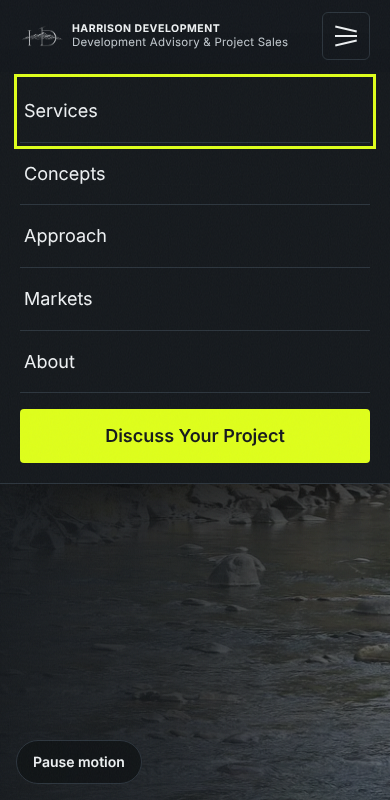
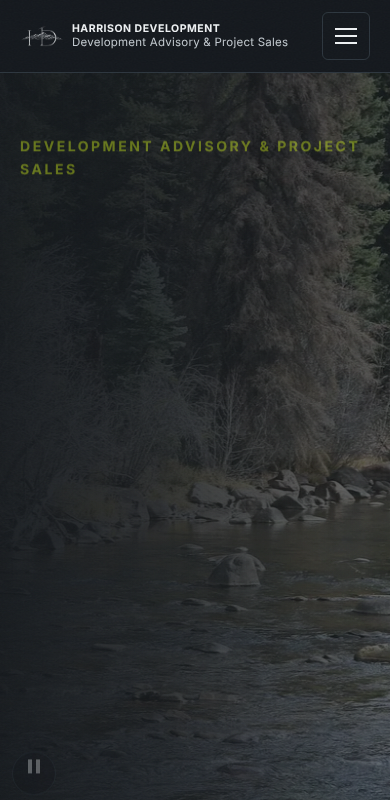
Harrison Development site: Pause motion steps aside on phones
On phones the wide Pause motion pill sat over the hero buttons and page text.
- Phones: a 44px glass circle with a pause/play symbol (screen readers still
  hear "Pause motion"); hidden while the opening screen is in view, shown
  once the visitor scrolls on; no stuck hover colour after a tap
- The same switch is a "Pause motion" row in the phone menu, so it is
  reachable from the top of the page, and the two stay in sync
- Footer has room at the end so its last line clears the button
- Desktop keeps the labeled pill; version tags bumped to 20261117b

Claude-Session: https://claude.ai/code/session_016C3qjMNvE1b3i9gP1RHhFb

diff --git a/harrison-development/js/main.js b/harrison-development/js/main.js
@@ -148,6 +148,7 @@
   /* ---------- Background footage: lazy, muted, plays only in view; one switch pauses all motion ---------- */
   var bgVideos = Array.prototype.slice.call(doc.querySelectorAll("video[data-bg]"));
   var motionToggle = $("motionToggle");
+  var navMotion = null;
   var motionPaused = false;
   try { motionPaused = localStorage.getItem("hdMotion") === "paused"; } catch (e) {}
   var inView = [];
@@ -168,6 +169,7 @@
     motionPaused = p;
     root.classList.toggle("motion-paused", p);
     if (motionToggle) { motionToggle.setAttribute("aria-pressed", String(p)); motionToggle.textContent = p ? "Play motion" : "Pause motion"; }
+    if (navMotion) { navMotion.setAttribute("aria-pressed", String(p)); navMotion.textContent = p ? "Play motion" : "Pause motion"; }
     if (save) { try { localStorage.setItem("hdMotion", p ? "paused" : "on"); } catch (e) {} }
     syncVideos();
   };
@@ -185,6 +187,24 @@
   if (motionToggle && !reduce) {
     motionToggle.hidden = false;
     motionToggle.addEventListener("click", function () { applyMotion(!motionPaused, true); });
+    // Phones: the same switch also lives in the menu, so it is reachable from the top of the page.
+    var navList = nav ? nav.querySelector("ul") : null, ctaLi = navList ? navList.querySelector(".nav-cta") : null;
+    if (navList) {
+      var li = doc.createElement("li"); li.className = "nav-motion-item";
+      navMotion = doc.createElement("button"); navMotion.type = "button"; navMotion.className = "nav-motion";
+      navMotion.addEventListener("click", function () { applyMotion(!motionPaused, true); });
+      li.appendChild(navMotion);
+      navList.insertBefore(li, ctaLi ? ctaLi.parentNode : null);
+    }
+    // Phones: the floating button steps aside while the opening screen (and its buttons) is in view.
+    var heroEl = $("hero"), phoneMq = window.matchMedia ? window.matchMedia("(max-width: 899px)") : { matches: false };
+    var placeMotion = function () {
+      var away = phoneMq.matches && heroEl && window.scrollY < heroEl.offsetHeight * 0.6;
+      motionToggle.classList.toggle("mt-away", !!away);
+    };
+    window.addEventListener("scroll", placeMotion, { passive: true });
+    if (phoneMq.addEventListener) phoneMq.addEventListener("change", placeMotion);
+    placeMotion();
   }
   applyMotion(motionPaused, false);
 

diff --git a/harrison-development/css/styles.css b/harrison-development/css/styles.css
@@ -629,3 +629,24 @@ h3{letter-spacing:-.015em}
 /* The phone sizes above (line 42) were overridden by the general .brand-name /
    .brand-desc rules that follow them; restate them here so they apply. */
 @media(max-width:419px){.brand-name{font-size:10.5px;letter-spacing:.05em}.brand-desc{font-size:11.5px}}
+
+/* Pause motion on phones: a small glass circle with a symbol (screen readers still
+   hear "Pause motion"), out of the way while the opening screen is in view, and
+   also offered in the menu. Desktop keeps the labeled pill. */
+.nav-motion-item{display:none}
+@media(max-width:899px){
+  .motion-toggle{width:44px;height:44px;min-height:44px;padding:0;font-size:0;display:grid;place-items:center;
+    left:12px;bottom:calc(12px + env(safe-area-inset-bottom,0px));background:rgba(14,17,20,.72);
+    -webkit-backdrop-filter:blur(14px) saturate(140%);backdrop-filter:blur(14px) saturate(140%);
+    transition:opacity .25s ease,translate .25s cubic-bezier(.23,1,.32,1)}
+  .motion-toggle[hidden]{display:none}
+  .motion-toggle::before{content:"";width:12px;height:14px;border-left:4px solid currentColor;border-right:4px solid currentColor;box-sizing:border-box}
+  .motion-toggle[aria-pressed="true"]::before{width:0;height:0;border:0;border-left:13px solid currentColor;border-top:8px solid transparent;border-bottom:8px solid transparent;margin-left:4px}
+  .motion-toggle.mt-away{opacity:0;translate:0 8px;pointer-events:none}
+  .js .nav-motion-item{display:block}
+  .nav-motion{display:block;width:100%;text-align:left;background:none;border:0;border-bottom:1px solid var(--line-dark);
+    padding:16px 4px;font:400 18px/1.2 var(--sans);color:var(--paper-soft);cursor:pointer;-webkit-tap-highlight-color:transparent;touch-action:manipulation}
+  .site-footer{padding-bottom:88px}
+}
+@media (max-width:899px) and (prefers-reduced-transparency:reduce){.motion-toggle{background:#0E1114;-webkit-backdrop-filter:none;backdrop-filter:none}}
+@media (hover:none){.motion-toggle:hover{border-color:var(--line-light);color:var(--paper)}}

diff --git a/harrison-development/index.html b/harrison-development/index.html
@@ -18,7 +18,7 @@
   <link rel="icon" href="assets/brand/hd-favicon.svg" type="image/svg+xml">
   <link rel="preload" href="assets/fonts/inter-latin-wght-normal.woff2" as="font" type="font/woff2" crossorigin>
   <link rel="preload" href="assets/fonts/space-grotesk-latin-wght-normal.woff2" as="font" type="font/woff2" crossorigin>
-  <link rel="stylesheet" href="css/styles.css?v=20261117a">
+  <link rel="stylesheet" href="css/styles.css?v=20261117b">
 </head>
 <body>
   <a class="skip" href="#main">Skip to main content</a>
@@ -536,8 +536,8 @@
 
   <button type="button" class="motion-toggle" id="motionToggle" aria-pressed="false" hidden>Pause motion</button>
 
-  <script src="js/config.js?v=20261117a"></script>
-  <script src="js/main.js?v=20261117a"></script>
-  <script type="module" src="js/terrain.js?v=20261117a"></script>
+  <script src="js/config.js?v=20261117b"></script>
+  <script src="js/main.js?v=20261117b"></script>
+  <script type="module" src="js/terrain.js?v=20261117b"></script>
 </body>
 </html>

diff --git a/harrison-development/privacy.html b/harrison-development/privacy.html
@@ -5,7 +5,7 @@
   <meta name="viewport" content="width=device-width, initial-scale=1">
   <title>Privacy Notice | Harrison Development</title>
   <link rel="icon" href="assets/brand/hd-favicon.svg" type="image/svg+xml">
-  <link rel="stylesheet" href="css/styles.css?v=20261117a">
+  <link rel="stylesheet" href="css/styles.css?v=20261117b">
 </head>
 <body>
   <a class="skip" href="#main">Skip to main content</a>
@@ -41,7 +41,7 @@
     </div>
   </main>
   <footer class="site-footer"><div class="wrap"><p class="small-light">Harrison Development &middot; Development Advisory &amp; Project Sales</p></div></footer>
-  <script src="js/config.js?v=20261117a"></script>
+  <script src="js/config.js?v=20261117b"></script>
   <script>
     (function(){var o=(window.HD_CONFIG||{}).operator||{};
       if(o.legalName)document.getElementById("opName").textContent=o.legalName;
